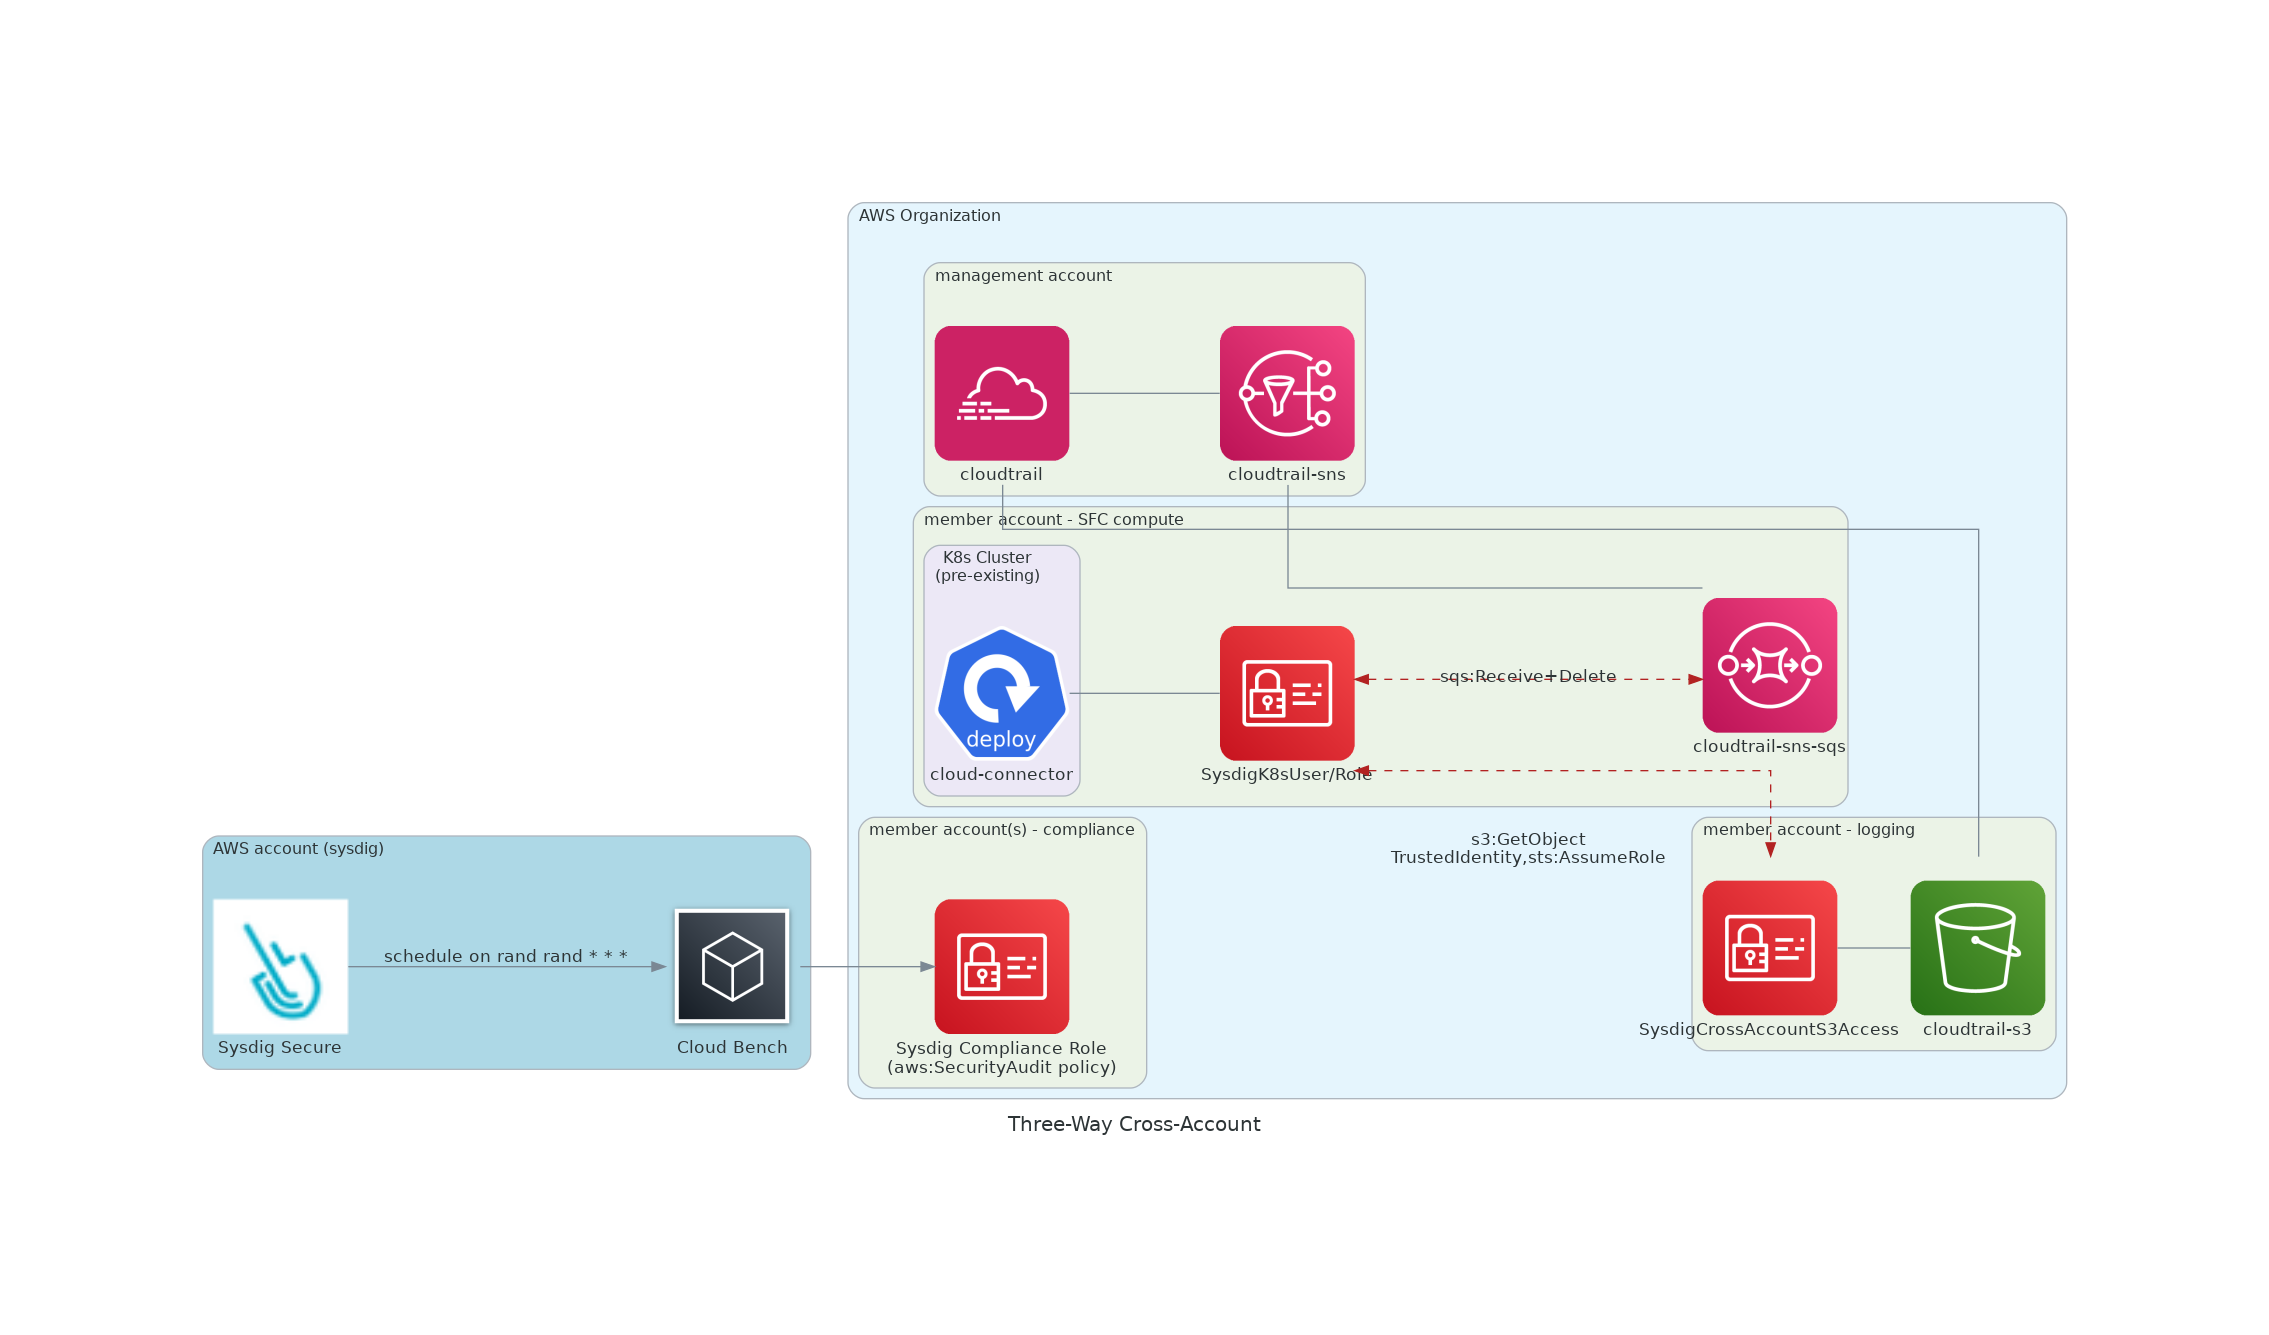
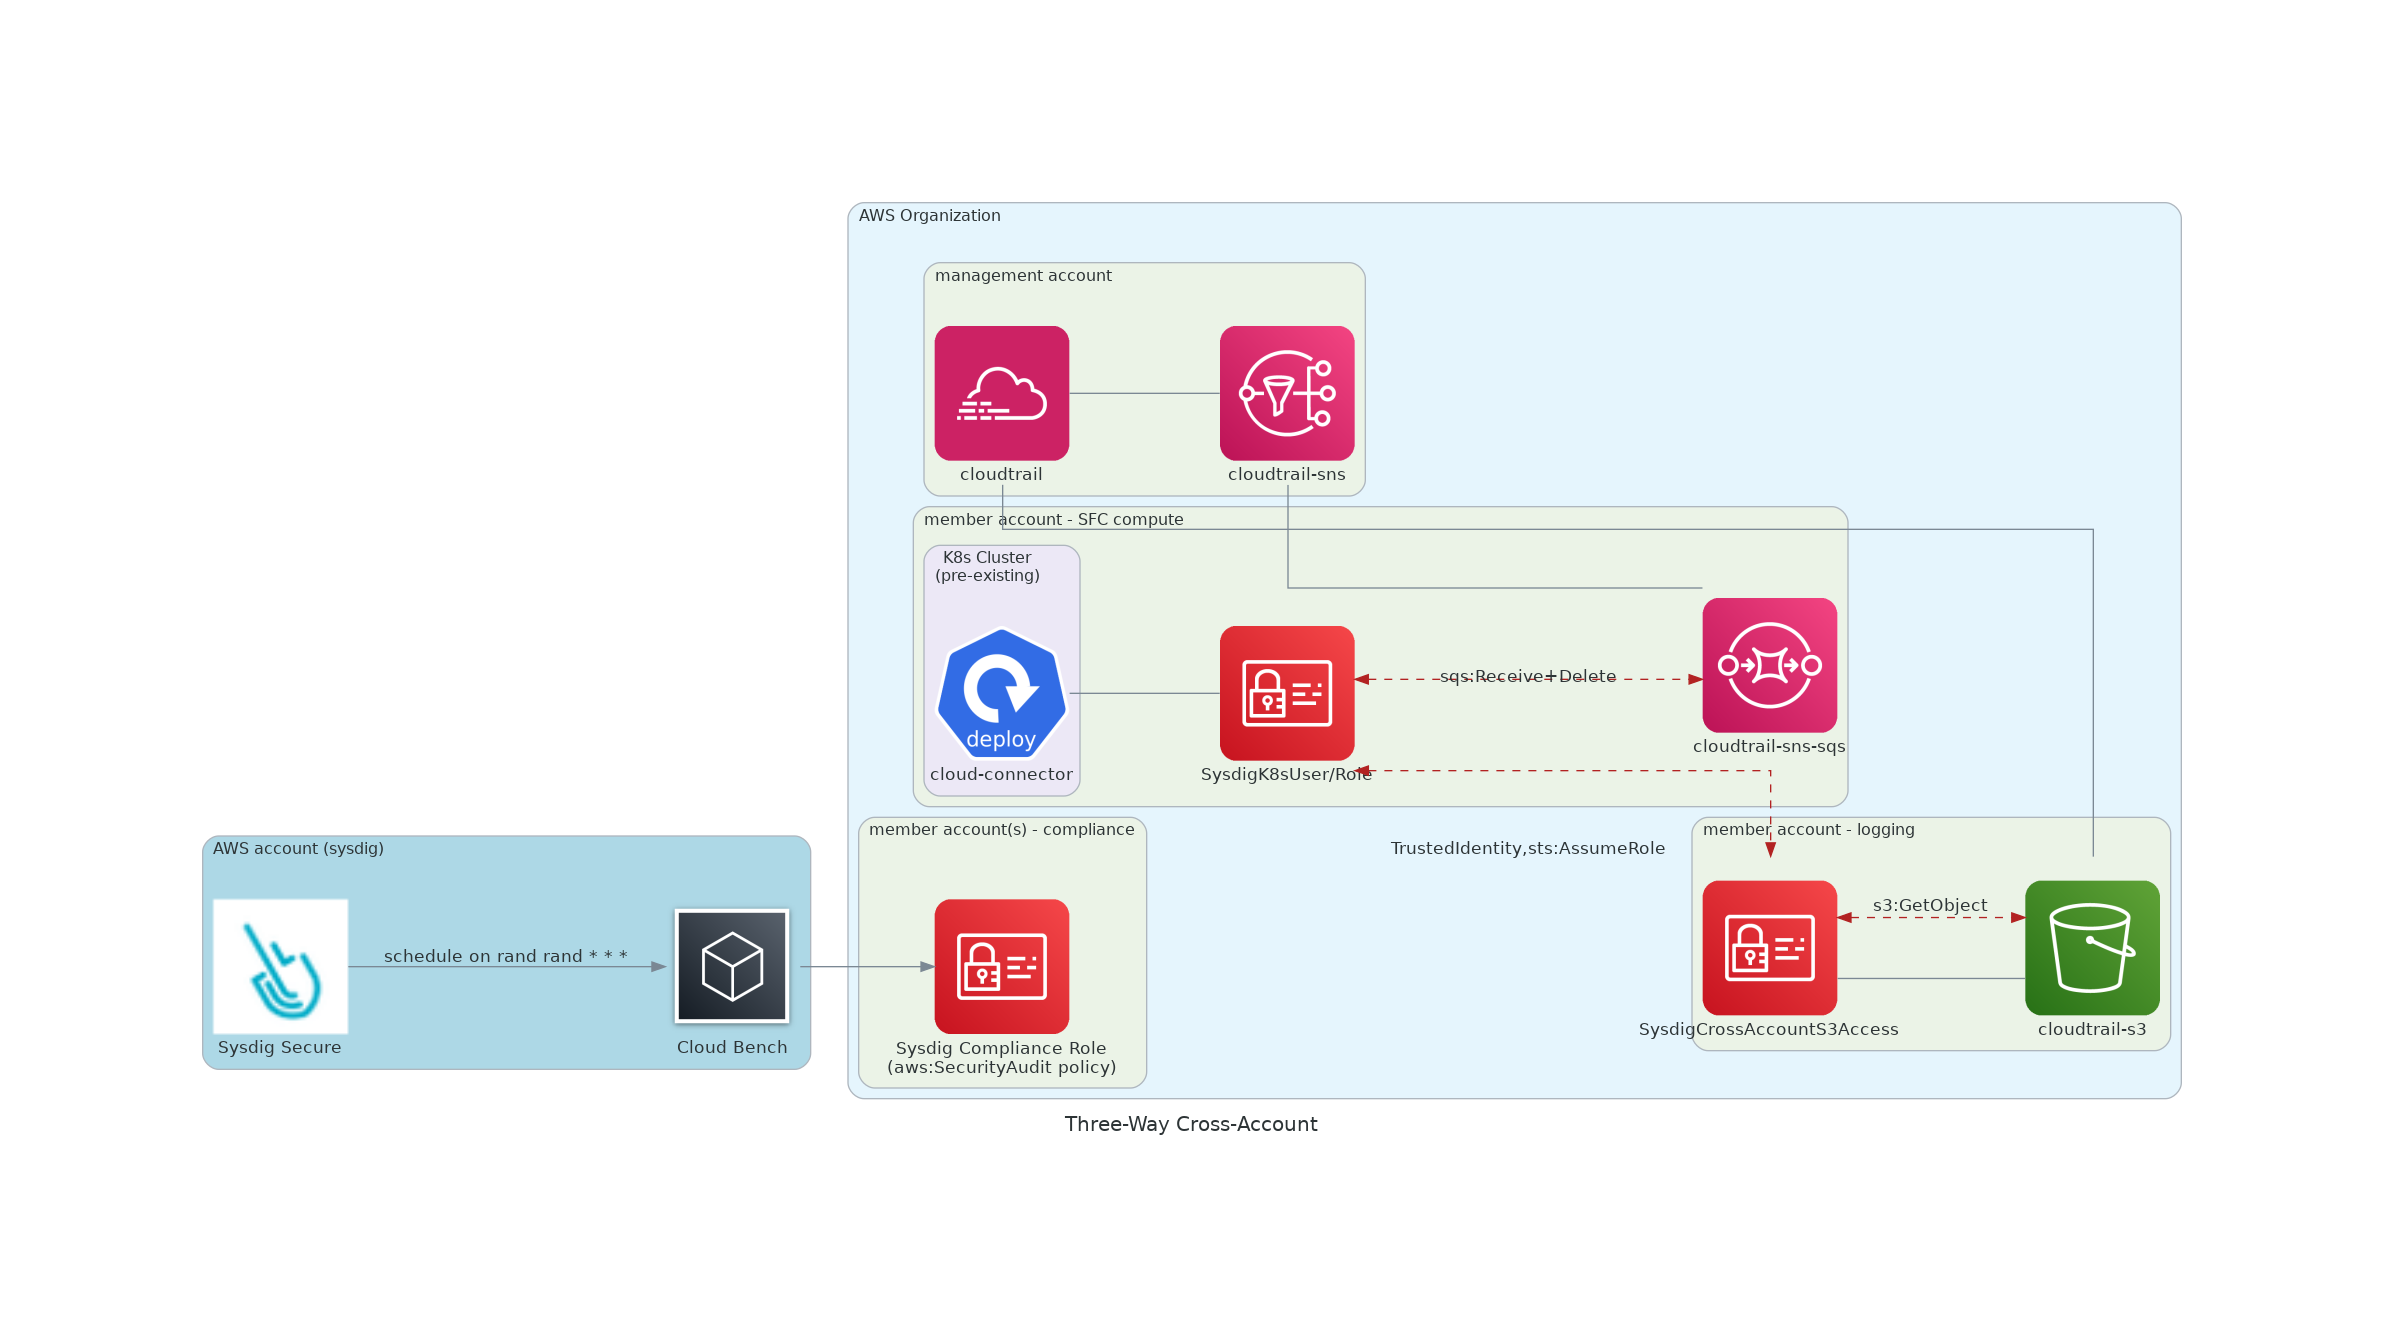
doc: review 3

Changed region(s): [[0.2777, 0.1536, 0.833, 0.8599], [0.5862, 0.1536, 0.9255, 0.8292], [0.0617, 0.6142, 0.2468, 0.7985]]

diff --git a/use-cases/resources/org-three-way.py b/use-cases/resources/org-three-way.py
@@ -31,9 +31,9 @@ with Diagram("Three-Way Cross-Account", filename="org-three-way", show=True):
 
         with Cluster("member account - logging"):
             cloudtrail_s3 = S3("cloudtrail-s3")
-            org_role = IAM("SysdigCrossAccountS3Access")
+            s3_role = IAM("SysdigCrossAccountS3Access")
 
-            org_role - cloudtrail_s3
+            s3_role - cloudtrail_s3
 
         with Cluster("member account - SFC compute"):
             with Cluster("K8s Cluster\n(pre-existing)"):
@@ -45,8 +45,9 @@ with Diagram("Three-Way Cross-Account", filename="org-three-way", show=True):
         cloudtrail - cloudtrail_s3
         cloudtrail_sns - cloudtrail_sns_sqs
 
-        k8s_iam >> Edge(color=color_event, style="dashed", label="s3:GetObject\nTrustedIdentity,sts:AssumeRole") << org_role
+        k8s_iam >> Edge(color=color_event, style="dashed", label="TrustedIdentity,sts:AssumeRole") << s3_role
         k8s_iam >> Edge(color=color_event, style="dashed", label="sqs:Receive+Delete")  << cloudtrail_sns_sqs
+        s3_role >> Edge(color=color_event, style="dashed", label="s3:GetObject")  << cloudtrail_s3
 
         with Cluster("member account(s) - compliance"):
             ccBenchRoleOnEachProject = IAM("Sysdig Compliance Role\n(aws:SecurityAudit policy)")

diff --git a/use-cases/nontf-org-three-cross-account-k8s-theat-compliance.md b/use-cases/nontf-org-three-cross-account-k8s-theat-compliance.md
@@ -3,11 +3,12 @@
 ## Use-Case explanation
 
 - Organizational setup
-    - Dynamic environments with accounts created and destroyed on-demand
     - Pre-Existing organizational-cloudtrail
       - Cloudtrail-SNS activated (in management account)
       - Cloudtrail-S3 is not in the management account, but in a log-archive member account
+    - Pre-Existing Kubernetes Cluster, where Sysdig compute will be deployed 
     - Sysdig features: Threat-detection and Compliance for selected org accounts. No image scanning
+    - Dynamic environments with accounts created and destroyed on-demand
 - Due to dynamic nature of customer's environment, a heavy programmatically ops tooling are used (not including Terraform) .
 - A summary of the required resources/permissions will be done, so they're provisioned for the Secure for Cloud features to work.
 
@@ -17,13 +18,13 @@ As a quick summary we'll need
 - Organizational **Management** Account
     - Pre-Existing organizational-cloudtrail with SNS activated
 - Member Account - **Logs Account**
-    - Pre-Existing S3 bucket
+    - Pre-Existing Cloudtrail-S3 bucket
     - Create a specific role for CrossAccount S3 access
 - Member Account - **Sysdig Compute Account**
     - Pre-Existing K8s cluster for cloud-connector (SFC compute)
-    - Crate a Cloudtrail-SNS-SQS wiring, from organizational cloudtrail into cloud-connector compute module
+    - Create a topic for Cloudtrail-SNS-SQS wiring, from organizational cloudtrail into cloud-connector compute module
 - **Member Account(s)**
-    - Sysdig ReadOnly Compliance role setup
+    - Sysdig Compliance Role (aws:SecurityAudit policy)
 
 Note:
 - All event ingestion resource (cloudtrail-sns, and cloudtrail-s3 bucket) live in same `AWS_REGION` AWS region.
@@ -104,11 +105,12 @@ cross-account read.
 1. Verify that your Organizational Cloudtrail has the **Cloudtrail-SNS notification activated** within same account and 
    region.<br/><br/>
 
-2. In your organization, **choose a member account** as `SYSDIG_ACCOUNT_ID`.<br/>Ideally, this account will gather the EKS cluster where Sysdig compute workload will be deployed, and the SQS to 
+2. In your organization, **choose a member account** as `SYSDIG_ACCOUNT_ID`.<br/>Ideally, this account will gather 
+   the EKS cluster where Sysdig compute workload will be deployed, and the SQS topic to 
 ingest Cloudtrail events.<br/><br/>
 
 3. In `SYSDIG_ACCOUNT_ID`, create an **SQS queue** (in the same region as the SNS/EKS).
-Default queue parametrization is enough.
+   - Default queue parametrization is enough.
    - Subscribe the Cloudtrail-SNS topic to it.
    - Due to cross-account limitations, you may need to enable `SNS:Subscribe` permissions on the queue first
     ```json
@@ -116,7 +118,7 @@ Default queue parametrization is enough.
       "Sid": "AllowCrossAccountSNSSubscription",
       "Effect": "Allow",
       "Principal": {
-        "AWS": "<SPECIFIC_USER_ARN>"
+        "AWS": "<SUBSCRIPTION_ACTION_USER_ARN>"
       },
       "Action": "sns:Subscribe",
       "Resource": "<CLOUDTRAIL_SNS_ARN>"
@@ -326,20 +328,21 @@ We will guide you to provide, on the Sysdig Secure SaaS backend, the following r
 
 ### Customer's Side
 
-1. Now create `SysdigComplianceRole` on each member account, using [Sysdig Compliance IAM policy](../../general_templates/ComplianceAgentlessRole.yaml) as guidance
-  and using the values gathered in previous step.
-```json
-{
-  "Effect": "Allow",
-  "Action": "sts:AssumeRole",
-  "Principal": {
-    "AWS": [ "<SYSDIG_AWS_TRUSTED_IDENTITY_ARN>" ]
-  },
-  "Condition": {
-    "StringEquals": {"sts:ExternalId": "<SYSDIG_AWS_EXTERNAL_ID>"}
-  }
-}
-```
+1. Now create `SysdigCompliance` role on each member account using the values gathered in previous step.
+   - Add `arn:aws:iam::aws:policy/SecurityAudit` AWS managed policy
+   - Allow following Trusted-Identity
+    ```json
+    {
+      "Effect": "Allow",
+      "Action": "sts:AssumeRole",
+      "Principal": {
+        "AWS": [ "<SYSDIG_AWS_TRUSTED_IDENTITY_ARN>" ]
+      },
+      "Condition": {
+        "StringEquals": {"sts:ExternalId": "<SYSDIG_AWS_EXTERNAL_ID>"}
+      }
+    }
+    ```
 
 ### End-To-End Validation
 
